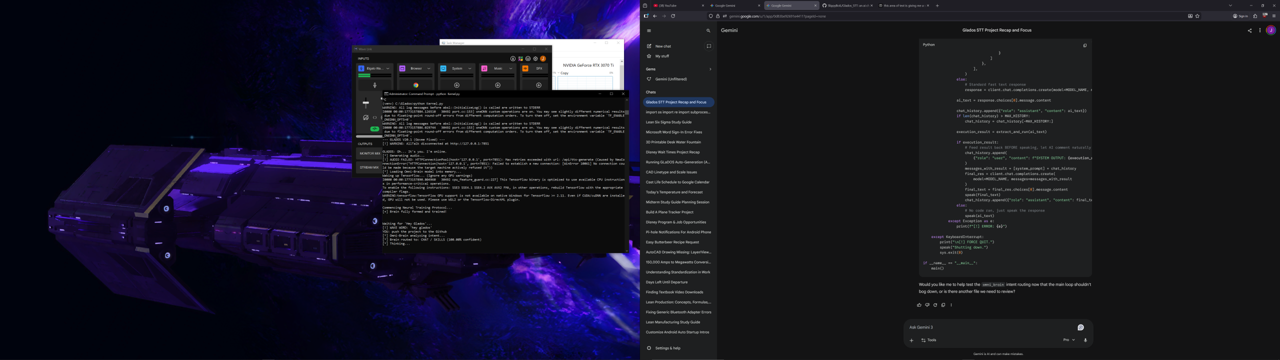
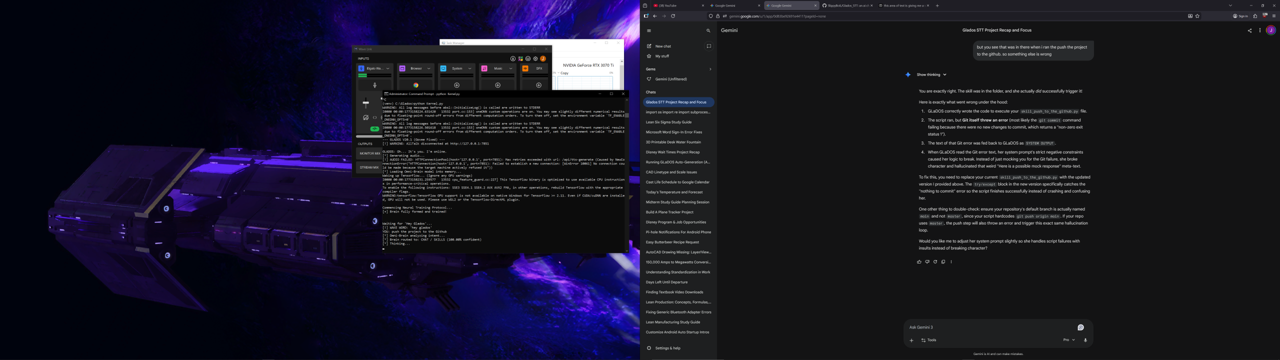
Auto-Sync

diff --git a/Plugins/skill_push_to_the_github.py b/Plugins/skill_push_to_the_github.py
@@ -3,14 +3,11 @@
 
 import subprocess
 import sys
-import os
-
 
 def _generate_requirements_txt():
     """Safely generate requirements.txt using pip freeze."""
     print("Generating requirements.txt...")
     try:
-        # Use the running interpreter and capture output instead of relying on shell redirection.
         result = subprocess.run(
             [sys.executable, "-m", "pip", "freeze"],
             check=True,
@@ -22,8 +19,6 @@ def _generate_requirements_txt():
         print("requirements.txt created.")
     except subprocess.CalledProcessError as e:
         print(f"pip freeze failed: {e}")
-        # Not fatal for git push; continue anyway.
-
 
 def run_git_push():
     try:
@@ -37,8 +32,15 @@ def run_git_push():
 
         # Step 3: Git commit
         print("Running git commit -m 'Auto-Sync'")
-        subprocess.run(["git", "commit", "-m", "Auto-Sync"], check=True)
-        print("Committed changes.")
+        try:
+            subprocess.run(["git", "commit", "-m", "Auto-Sync"], check=True)
+            print("Committed changes.")
+        except subprocess.CalledProcessError as e:
+            # If exit code is 1, there was just nothing to commit.
+            if e.returncode == 1:
+                print("Working tree clean. Nothing new to commit. Proceeding to push...")
+            else:
+                raise e # If it's a real error, crash normally.
 
         # Step 4: Git push to main
         print("Running git push origin main")

diff --git a/Plugins/runtime_action.py b/Plugins/runtime_action.py
@@ -1,3 +1,2 @@
 import subprocess, sys
-
 subprocess.run([sys.executable, 'plugins/skill_push_to_the_github.py'])
